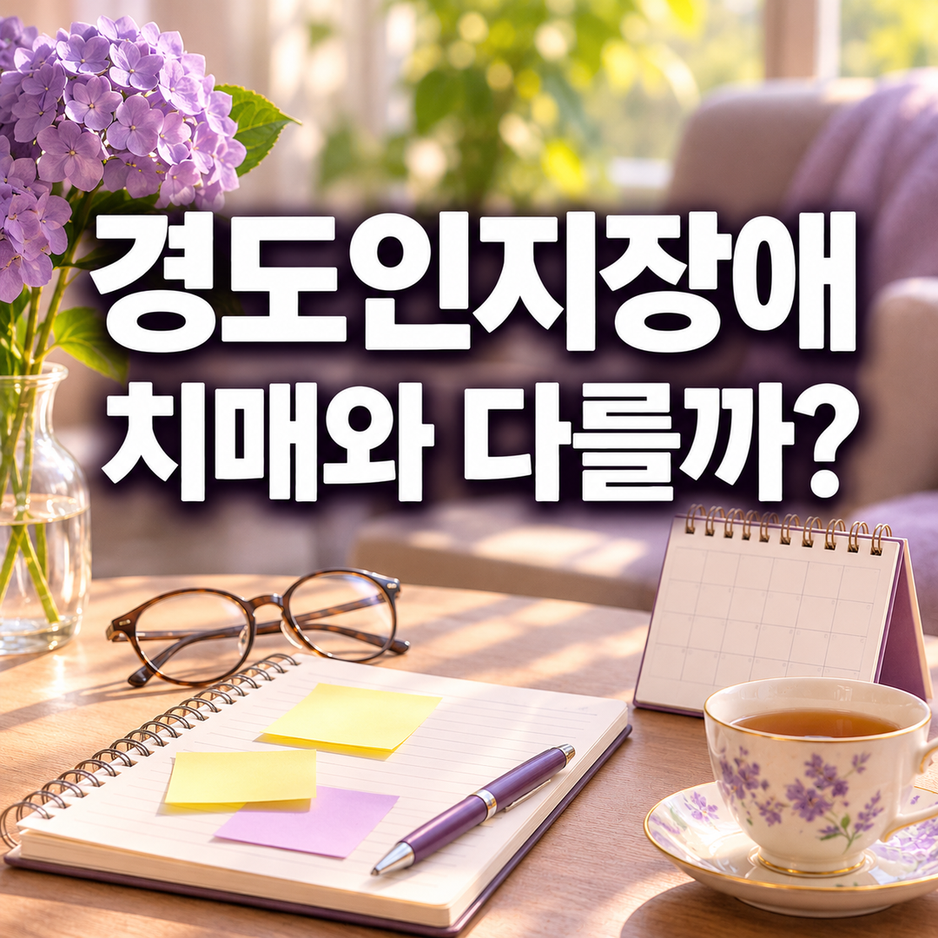
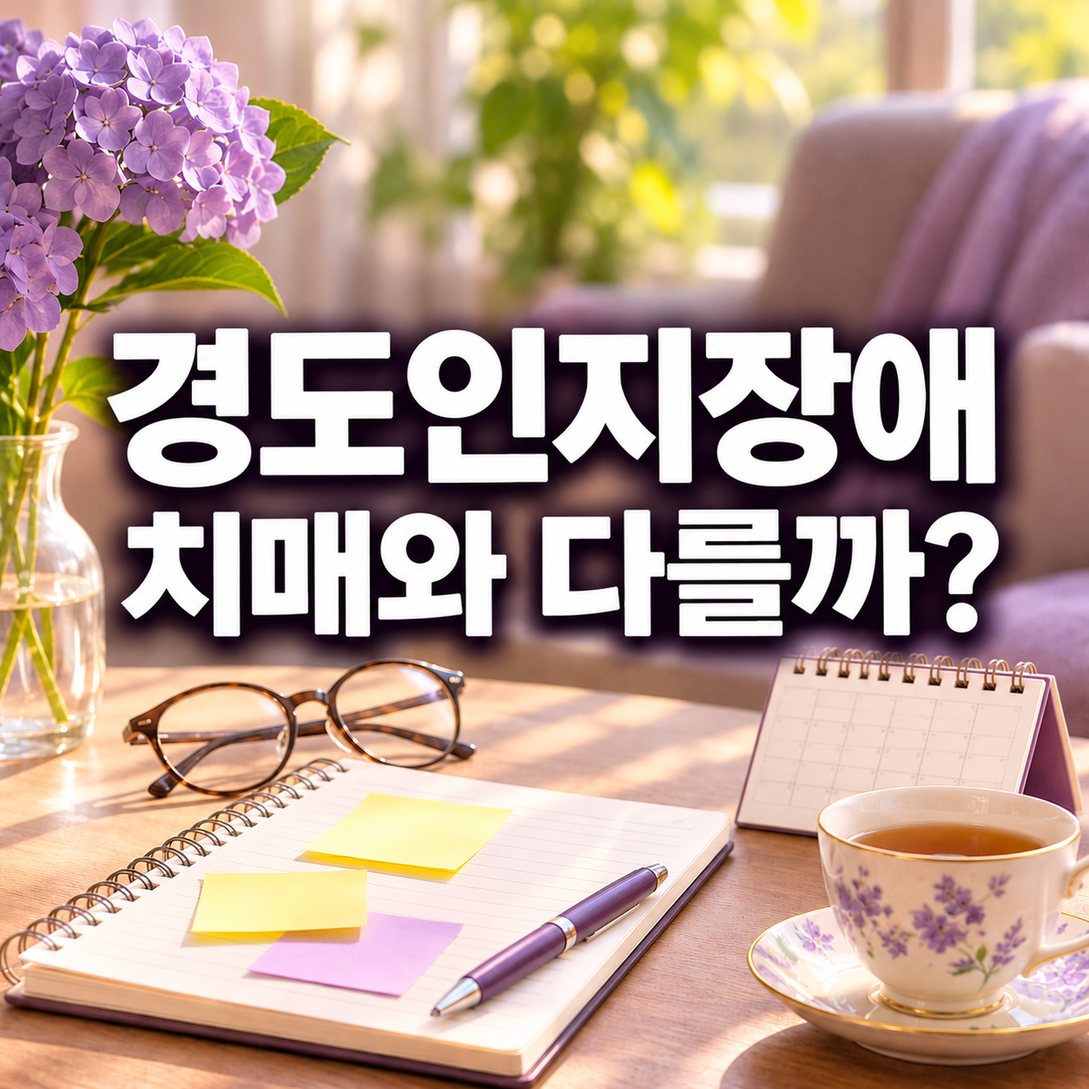
네이버 「블랙먼데이 뜻」·「블랙먼데이 다음 날」 두 편 작성
- 블랙먼데이 뜻, 폭락한 월요일에 확인할 것: 검수 반영, 타이틀 적용
- 블랙먼데이 다음 날, 역대 폭락일 이후 기록: 지수 종가로 직접 계산, 검수 반영, 이미지 5장
- 경도인지장애 타이틀 교체, AGENTS.md 진행 상황 기록

diff --git a/문서/네이버-코딩가이드/20261122_블랙먼데이-다음날/index.html b/문서/네이버-코딩가이드/20261122_블랙먼데이-다음날/index.html
@@ -1,0 +1,117 @@
+<meta charset="utf-8">
+<!--
+[네이버 블로그 발행 메모]
+제목: 블랙먼데이 다음 날, 주가는 어떻게 됐을까? 역대 폭락일 이후 기록
+검색 설명: 주가가 하루에 크게 떨어진 다음 날, 한 달 뒤, 1년 뒤에 지수는 어떻게 움직였을까. 1950년 이후 S&P500이 하루 7% 넘게 떨어진 9번과 2000~2025년 코스피가 하루 8% 넘게 떨어진 7번을 일별 종가로 직접 계산해 정리했다.
+카테고리: 경제·투자
+태그: #블랙먼데이 #주가폭락 #폭락다음날 #반등 #코스피급락 #S&P500 #주식 #증시 #1987블랙먼데이 #코로나폭락
+글자 수: 본문 공백 포함 1,824자 / 공백 제외 1,383자 (빨간 글씨 이미지 표시·줄바꿈 제외, 2026.11.22)
+분량 기준: 3,000자 이하. 한 편.
+본문 글자 크기: 16px. 소제목 h2 24px(위 구분선), h3 18px 앞에 ◆ 기호(글 안에서 모두 같음). '한 줄로 말하면'만 청록(#138a8a) 강조.
+발행 시점: 정해진 기한 없음(언제 읽어도 맞게 씀). 11/22 블랙먼데이 글의 후속편(사용자가 제목을 정함).
+발행 방법: 이 파일을 브라우저로 연 다음 본문을 드래그해 복사 → 네이버 편집기에 붙여넣는다.
+          본문의 빨간 글씨 [[ 이미지: 제목 (파일명) ]] 자리에 해당 파일을 올리고, 빨간 글씨는 지운다.
+          맨 아래 '(링크 자리)' 두 줄은 11/22 블랙먼데이 글·11/22 반토막 본전 글 링크로 바꾼다.
+
+[이미지 순서] (각 이미지가 무엇을 이해시키는지)
+01-타이틀.png (ChatGPT 제작, 1:1, '블랙먼데이 / 다음 날 주가는?', 아침 창가 책상 모니터의 파란 하락 뒤 짧은 빨간 반등 그래프·탁상 달력·커피잔, 글자 정확, 로고 없음, 둘째 줄 가로 약 85.4%로 허용 끝을 몇 px 넘었지만 줄이면 가장자리가 띠처럼 보여 그대로 씀, 크기만 1254 → 1080px, 원본 scratchpad/backup/bmnext-01-original.png) — 글의 주제
+02-폭락-다음-날.png (AI, 4:5) — 폭락 다음 날 오른 날과 내린 날이 각각 몇 번이고 얼마였는지 한눈에
+03-2008년과-2020년-1년.png (AI, 4:5) — 같은 '다음 날 반등'으로 시작해도 그 뒤 1년 길이 얼마나 달랐는지
+04-반등-뒤-더-떨어진-폭.png (AI, 4:5) — 다음 날 오른 만큼, 1년 안에 더 떨어진 폭은 얼마였는지(반등 ≠ 바닥)
+05-함께-보면-좋은-글.png (공통 배너 밝은색)
+※ AI 도식 디자인: 따뜻한 미색 종이 바탕(#f6f3ec)·먹색 글자(#1f2a44)·상승 빨강(#d64541)·하락 파랑(#2f6fd6)·강조 청록(#138a8a), 신문 경제면 표처럼 가는 선과 큰 숫자. 앞 글(블랙먼데이)의 짙은 시세 화면과 다르게 함. 02 점 그림(사건별), 03 선 그래프, 04 위아래 막대.
+※ 워터마크 없음.
+
+[근거 — 2026년 11월 22일 계산]
+- 야후 파이낸스 일별 종가(^GSPC 1927~, ^KS11 1996.12~, curl로 받아 직접 계산). 하락률 = 전 거래일 종가 대비 종가. 다음 날 = 다음 거래일 종가, 한 달 = 21거래일 뒤, 석 달 = 63거래일 뒤, 1년 = 252거래일 뒤(모두 폭락일 종가 대비).
+- S&P500 1950년 이후 하루 -7% 이하 9번: 1987.10.19 -20.47(다음 날 +5.33, 21일 +8.09, 63일 +10.89, 1년 +22.94, 1년 안 최저 -0.4%) / 1987.10.26 -8.28(+2.42, +8.22, +9.62, +23.99, -1.6) / 2008.9.29 -8.81(+5.42, -15.00, -21.42, -4.14, 2009.3.9까지 -38.9%, 전날 종가 회복 2010.4.23 = 394거래일) / 2008.10.9 -7.62(-1.18, +2.32, -2.15, +17.76, -25.6) / 2008.10.15 -9.03(+4.25, +0.38, -7.06, +20.79, -25.5) / 2008.12.1 -8.93(+3.99, +10.66, -12.66, +35.85, -17.1) / 2020.3.9 -7.60(+4.94, -3.17, +17.69, +41.10, -18.5) / 2020.3.12 -9.51(+9.29, +11.33, +21.02, +58.96, -9.8) / 2020.3.16 -11.98(+6.00, +16.65, +28.52, +66.07, 2020.3.23까지 -6.2).
+  → 다음 날 9번 중 8번 상승, 한 달 뒤 7번, 석 달 뒤 5번(2008년 네 번 모두 하락), 1년 뒤 8번 상승.
+- 코스피 2000~2025년 하루 -8% 이하 7번: 2000.4.17 -11.63(다음 날 +5.59, 21일 +3.24, 1년 -17.42, 1년 안 최저 -30.6) / 2000.9.18 -8.06(-1.11, -10.98, -18.13, -18.8) / 2001.9.12 -12.02(+4.97, +9.74, +38.34, -1.4) / 2008.10.16 -9.44(-2.73, -10.34, +36.68, -22.7) / 2008.10.24 -10.57(+0.82, +3.34, +74.72, 0.0) / 2020.3.19 -8.39(+7.44, +30.24, +108.28, 0.0) / 2024.8.5 -8.77(+3.30, +5.70, +28.68, 2025.4.9까지 -6.1).
+  → 다음 날 7번 중 5번 상승, 한 달 뒤 5번, 1년 뒤 5번 상승(2000년 두 번 하락). 2008.10.23 -7.48% 다음 날 10.24 -10.57%(이틀 연속 폭락)도 같은 자료.
+- 1950년 이후 S&P500 전체 거래일 중 오른 날 약 53%, 코스피 2000~2025년 약 53%(비교용).
+- 코스피는 2026년에도 큰 하락일이 자료에 있으나(3/3 -7.24%, 3/4 -12.06% 등) 사건을 원문으로 확인하지 못했고 1년 뒤 결과도 아직 없어 2025년까지로 잘랐다.
+- 1950년 이전(1929~1940년대 대공황기)은 시장 구조·자료 성격이 달라 넣지 않음.
+- 9번은 세 번의 위기(1987·2008·2020)에, 7번도 몇 번의 위기에 몰려 있어 독립된 사례가 아니라는 점을 본문에 밝힘. 지수 기준이라 개별 종목·레버리지 상품은 다름.
+- 투자 권유 아님 문장 넣음.
+- 2026-11-22 외부 검수 반영: 기준 표현 '넘게' → '하락률 ○% 이상'(집계는 -7%·-8% 이하), 비교 기준은 '다음 거래일·21거래일·252거래일', 배당 미포함 가격지수 안내, 다음 날 +9.3%와 원금 회복의 차이(100만 → 90만 → 약 98만 3,700원), 2020.3.16은 '5거래일 후 3월 23일 종가 저점', 1년 안 추가 하락은 '폭락일 종가보다 10% 넘게 낮은 종가'(2008년 4번·2020.3.9 1번), 회복 기간은 394거래일로만. 그림 04에 '기준 = 폭락일 종가' 표시.
+-->
+<p style="font-size:16px;">주가가 크게 무너진 날 밤, 가장 궁금한 건 하나입니다.</p>
+<p style="font-size:16px;">"내일은 좀 오를까?"</p>
+<p style="font-size:16px;color:#e60000;font-weight:bold;">[[ 이미지: 타이틀 (01-타이틀.png) ]]</p>
+
+<p>&nbsp;</p>
+<h3 style="font-size:18px;margin:24px 0 8px;color:#138a8a;">◆ 한 줄로 말하면</h3>
+<p style="font-size:16px;">과거 폭락일 다음 날에는 대부분 올랐습니다. 하지만 그 반등이 바닥이었던 것은 아닙니다.</p>
+<p style="font-size:16px;">몇 달 동안 더 떨어진 때도 있었습니다.</p>
+
+<p>&nbsp;</p>
+<hr style="border:none;border-top:1px solid #cfcfcf;margin:8px 0;">
+<h2 style="font-size:24px;margin:40px 0 12px;">어떤 날을 골라 셌을까?</h2>
+<p style="font-size:16px;">지수의 하루 종가로 직접 계산했습니다.</p>
+<ul style="font-size:16px;">
+<li>미국 S&amp;P500: 1950년 이후 하루 하락률이 7% 이상인 날 9번</li>
+<li>코스피: 2000~2025년 하루 하락률이 8% 이상인 날 7번</li>
+</ul>
+<p style="font-size:16px;">1987년 블랙먼데이(-20.5%), 2008년 금융위기, 2020년 코로나 폭락, 2024년 8월 5일(-8.8%)이 모두 들어 있습니다.</p>
+<p style="font-size:16px;">각 폭락일의 종가를 기준으로 다음 거래일, 21거래일 뒤(약 한 달), 252거래일 뒤(약 1년)의 지수를 비교했습니다.</p>
+<p style="font-size:16px;">배당을 포함하지 않은 지수 종가 기준입니다. 실제 투자 수익률은 배당, 수수료, 세금, 매수 시점에 따라 달라질 수 있습니다.</p>
+
+<p>&nbsp;</p>
+<hr style="border:none;border-top:1px solid #cfcfcf;margin:8px 0;">
+<h2 style="font-size:24px;margin:40px 0 12px;">다음 날에는 대부분 올랐다</h2>
+<p style="font-size:16px;">S&amp;P500은 9번 중 8번, 코스피는 7번 중 5번 다음 날 올랐습니다.</p>
+<p style="font-size:16px;">오른 폭도 작지 않았습니다. 2020년 3월 12일 다음 날 S&amp;P500은 하루에 9.3% 올랐습니다.</p>
+<p style="font-size:16px;">그래도 전날 손실이 다 회복된 것은 아닙니다. 100만 원이 90만 원으로 떨어진 뒤 9.3% 오르면 약 98만 3,700원입니다.</p>
+<p style="font-size:16px;">하락률과 상승률은 계산하는 기준 금액이 다르기 때문입니다.</p>
+<p style="font-size:16px;color:#e60000;font-weight:bold;">[[ 이미지: 폭락 다음 날 (02-폭락-다음-날.png) ]]</p>
+<p style="font-size:16px;">다음 날 또 떨어진 때도 있습니다.</p>
+<p style="font-size:16px;">코스피는 2008년 10월 23일 7.5% 떨어진 다음 날 10.6%가 더 빠졌습니다. 이틀 연속 폭락이었습니다.</p>
+
+<p>&nbsp;</p>
+<hr style="border:none;border-top:1px solid #cfcfcf;margin:8px 0;">
+<h2 style="font-size:24px;margin:40px 0 12px;">반등했다고 바닥은 아니었다</h2>
+<p style="font-size:16px;">2008년 9월 29일, S&amp;P500은 하루에 8.8% 떨어졌습니다.</p>
+<p style="font-size:16px;">다음 날에는 5.4% 올랐습니다. 여기까지만 보면 금방 회복한 것처럼 보입니다.</p>
+<p style="font-size:16px;">하지만 한 달 뒤에는 그날보다 15% 낮았습니다. 이듬해 3월에는 39% 가까이 더 내려갔습니다.</p>
+<p style="font-size:16px;color:#e60000;font-weight:bold;">[[ 이미지: 2008년과 2020년, 그 뒤 1년 (03-2008년과-2020년-1년.png) ]]</p>
+<p style="font-size:16px;">2020년 3월 16일은 달랐습니다. 약 12% 떨어진 뒤 5거래일 후인 3월 23일 종가를 저점으로 반등했습니다.</p>
+<p style="font-size:16px;">1년 뒤에는 폭락일 종가보다 약 66% 높았습니다.</p>
+<p style="font-size:16px;">두 날 모두 다음 날은 올랐습니다. 다음 날 하루만으로는 어느 길인지 알 수 없었다는 뜻입니다.</p>
+
+<h3 style="font-size:18px;margin:24px 0 8px;">◆ 1년 안에 더 떨어진 폭</h3>
+<p style="font-size:16px;">S&amp;P500 9번 가운데 5번은 1년 안에 폭락일 종가보다 10% 넘게 낮은 종가를 기록했습니다.</p>
+<p style="font-size:16px;">이 5번은 2008년 금융위기 때 4번, 2020년 3월 9일 1번입니다.</p>
+<p style="font-size:16px;color:#e60000;font-weight:bold;">[[ 이미지: 반등 뒤 더 떨어진 폭 (04-반등-뒤-더-떨어진-폭.png) ]]</p>
+
+<p>&nbsp;</p>
+<hr style="border:none;border-top:1px solid #cfcfcf;margin:8px 0;">
+<h2 style="font-size:24px;margin:40px 0 12px;">한 달 뒤, 1년 뒤는?</h2>
+<p style="font-size:16px;">시간이 길어지면 결과가 갈렸습니다.</p>
+<ul style="font-size:16px;">
+<li>S&amp;P500: 한 달 뒤 9번 중 7번, 1년 뒤 8번 폭락일보다 높았음</li>
+<li>코스피: 한 달 뒤 7번 중 5번, 1년 뒤 5번 폭락일보다 높았음</li>
+</ul>
+<p style="font-size:16px;">1년 뒤에도 낮았던 때는 2008년 9월 S&amp;P500, 2000년의 코스피 두 번입니다.</p>
+<p style="font-size:16px;">2008년 9월 29일 폭락 때 S&amp;P500은 폭락 전날 종가를 다시 회복하기까지 394거래일이 걸렸습니다.</p>
+
+<p>&nbsp;</p>
+<hr style="border:none;border-top:1px solid #cfcfcf;margin:8px 0;">
+<h2 style="font-size:24px;margin:40px 0 12px;">이 숫자를 읽을 때 조심할 것</h2>
+<ul style="font-size:16px;">
+<li>사례가 적습니다. 9번과 7번뿐입니다.</li>
+<li>같은 위기에 몰려 있습니다. S&amp;P500 9번은 사실상 1987년·2008년·2020년 세 번의 위기입니다.</li>
+<li>지수 기준입니다. 개별 종목이나 레버리지 상품은 훨씬 다르게 움직일 수 있습니다.</li>
+<li>과거 기록이 앞으로를 알려 주지는 않습니다.</li>
+</ul>
+
+<p>&nbsp;</p>
+<hr style="border:none;border-top:1px solid #cfcfcf;margin:8px 0;">
+<h2 style="font-size:24px;margin:40px 0 12px;">반등한 날에도 다시 볼 것</h2>
+<p style="font-size:16px;">폭락 다음 날 오르면 마음이 놓입니다. 그래도 그날 계좌를 다시 보는 게 좋습니다.</p>
+<p style="font-size:16px;">빌린 돈이 있는지, 곧 써야 할 돈이 들어 있는지는 반등한 날에도 그대로입니다.</p>
+<p style="font-size:14px;color:#777;">이 글은 과거 지수 기록을 정리한 것이며, 특정 상품의 매수·매도를 권하지 않습니다. 과거 기록이 미래 수익을 보장하지 않습니다.</p>
+
+<p>&nbsp;</p>
+<p style="font-size:16px;color:#e60000;font-weight:bold;">[[ 이미지: 함께 보면 좋은 글 (05-함께-보면-좋은-글.png) ]]</p>
+<p style="font-size:16px;">(링크 자리) 블랙먼데이 뜻, 주가 폭락한 월요일에 확인할 것</p>
+<p style="font-size:16px;">(링크 자리) 반토막 난 투자, 본전까지 몇 % 올라야 할까?</p>

diff --git a/문서/네이버-코딩가이드/20261122_블랙먼데이/index.html b/문서/네이버-코딩가이드/20261122_블랙먼데이/index.html
@@ -1,0 +1,103 @@
+<meta charset="utf-8">
+<!--
+[네이버 블로그 발행 메모]
+제목: 블랙먼데이 뜻, 주가 폭락한 월요일에 확인할 것
+검색 설명: 블랙먼데이는 주가가 크게 떨어진 월요일을 부르는 말이다. 1987년 미국 블랙먼데이와 2024년 8월 5일 코스피 급락, 폭락이 월요일에 몰리는 이유, 폭락한 날 사이드카·서킷브레이커와 신용·미수 반대매매를 확인하는 순서를 정리했다.
+카테고리: 경제·투자
+태그: #블랙먼데이 #검은월요일 #주가폭락 #코스피급락 #서킷브레이커 #사이드카 #반대매매 #신용거래 #담보비율 #주식
+글자 수: 본문 공백 포함 1,776자 / 공백 제외 1,356자 (빨간 글씨 이미지 표시·줄바꿈 제외, 2026.11.22)
+분량 기준: 3,000자 이하. 한 편.
+본문 글자 크기: 16px. 소제목 h2 24px(위 구분선), h3 18px 앞에 ▸ 기호(글 안에서 모두 같음). '한 줄로 말하면'만 주황(#e08a00) 강조.
+발행 시점: 정해진 기한 없음(언제 읽어도 맞게 씀). 계기: 2026.11.22 네이트 경제 관심뉴스 '검은 월요일 될라… 골드만의 서늘한 전망', '다음 주 108조 원 추가 매도 경고' — 본문에는 쓰지 않음.
+발행 방법: 이 파일을 브라우저로 연 다음 본문을 드래그해 복사 → 네이버 편집기에 붙여넣는다.
+          본문의 빨간 글씨 [[ 이미지: 제목 (파일명) ]] 자리에 해당 파일을 올리고, 빨간 글씨는 지운다.
+          맨 아래 '(링크 자리)' 두 줄은 11/20 사이드카 글·11/21 공포지수 VIX 글 링크로 바꾼다.
+
+[이미지 순서] (각 이미지가 무엇을 이해시키는지)
+01-타이틀.png (ChatGPT 제작, 1:1, '블랙먼데이 / 폭락한 월요일', 새벽 창가 책상의 노트북 파란 하락 차트·한 칸 칠한 탁상 달력·커피잔, 글자 정확, 가장 넓은 줄 약 83~84%로 허용 범위 안, 로고 없음, 크기만 1254 → 1080px, 원본 scratchpad/backup/bm-01-original.png) — 글의 주제(블랙먼데이)
+02-역사에-남은-월요일.png (AI, 4:5) — 세 번의 '검은 월요일'이 하루에 얼마나 떨어졌는지 크기 비교
+03-폭락한-날-확인-순서.png (AI, 4:5) — 폭락한 날 무엇부터 확인할지 순서
+04-반대매매-계산.png (AI, 4:5) — 신용으로 산 주식이 얼마나 떨어지면 담보 비율이 기준 아래로 내려가는지
+05-함께-보면-좋은-글.png (공통 배너 남색)
+※ AI 도식 디자인(새 지침): 짙은 남회색 바탕(#151a23)·시세 화면 느낌, 하락 파랑(#4d8bff)·상승 빨강(#ff5a5a)·강조 주황(#ffb020), 큰 숫자 위주. 앞 글들의 밝은 바탕·카드 틀과 다르게 함. 02 가로 막대, 03 세로 흐름, 04 계산 막대.
+※ 워터마크 없음.
+
+[근거 — 2026년 11월 22일 확인]
+- 야후 파이낸스 일별 종가(curl로 받아 직접 계산): S&P500 1987.10.19(월) 282.70 → 224.84(-20.47%), 2020.3.16(월) 2,711.02 → 2,386.13(-11.98%). 코스피 2024.8.5(월) 2,676.19 → 2,441.55(-8.77%), 다음 날 2024.8.6 +3.30%.
+- 다우 1987.10.19 하루 약 -22.6%(508포인트)는 일반 지식(야후 다우 자료는 1992년부터라 대조 못 함).
+- 1987년 원인(프로그램 매매·포트폴리오 보험·불안 심리)과 이후 서킷브레이커 도입 계기는 일반 지식 — 본문은 '여러 원인이 함께 거론된다'로 씀.
+- 2024.8.5 코스피·코스닥 서킷브레이커·사이드카 발동은 일반 지식(당시 보도로 널리 알려짐).
+- 사이드카(선물 5% 1분 → 프로그램매매 호가 5분 정지)·서킷브레이커(지수 8%·15%·20% 하락 1분 지속 → 20분 중단, 3단계는 그날 장 종료)는 11/20 사이드카 글에서 생활법령정보로 확인한 내용.
+- 반대매매·담보 비율: 신용거래 담보 유지 비율은 증권사가 정하며 140%를 쓰는 곳이 많다고 알려짐(일반 지식) — 본문은 '증권사마다 다름, 예시는 140% 가정'. 미수는 결제일까지 돈을 채우지 못하면 반대매매. 계산 예시(자기 돈 1,000만 + 신용 1,000만 → 2,000만 원어치, 30% 하락 시 140%, 40% 하락 시 120%)는 직접 계산, 이자·수수료 제외.
+- 야후 코스피 자료에는 2026년의 큰 하락일(3/4 -12.06%, 7/28 -10.84% 등)도 있으나 사건 내용을 원문으로 확인하지 못해 본문에 쓰지 않음.
+- 2026-11-22 외부 검수 일곱 가지 반영: 1987 최대 기록은 '다우 지수 하루 하락률·미국 증시 역사상 최대'로, 서킷브레이커는 미국 도입과 한국 유가증권시장 1998년 12월 도입을 나눔(검수 의견 기준), 코스피는 '전 거래일보다 8.77% 하락한 2,441.55', 사이드카·서킷브레이커는 기준·대상을 나누고 3단계 당일 종료 명시, 신용(담보 비율·추가 담보 기한)과 미수(결제일까지 미입금)를 나눔, 담보 계산 예시 금액을 본문에 넣음, 확인 시점은 '미국 금요일 장 + 주말 뉴스'. 그림 03 1번 칸도 맞춤.
+- 투자 권유 아님 문장 넣음.
+-->
+<p style="font-size:16px;">월요일 아침, 계좌를 열기가 겁나는 날이 있습니다.</p>
+<p style="font-size:16px;">주가가 크게 무너진 월요일을 사람들은 '블랙먼데이'라고 부릅니다.</p>
+<p style="font-size:16px;color:#e60000;font-weight:bold;">[[ 이미지: 타이틀 (01-타이틀.png) ]]</p>
+
+<p>&nbsp;</p>
+<h3 style="font-size:18px;margin:24px 0 8px;color:#e08a00;">▸ 한 줄로 말하면</h3>
+<p style="font-size:16px;">블랙먼데이(검은 월요일)는 1987년 미국 증시가 하루에 20% 넘게 떨어진 날에서 나온 말입니다.</p>
+<p style="font-size:16px;">지금은 주가가 크게 떨어진 월요일을 두루 부르는 말로 씁니다.</p>
+
+<p>&nbsp;</p>
+<hr style="border:none;border-top:1px solid #cfcfcf;margin:8px 0;">
+<h2 style="font-size:24px;margin:40px 0 12px;">1987년 10월 19일, 무슨 일이 있었나?</h2>
+<p style="font-size:16px;">그날 미국 다우 지수는 하루에 약 22.6% 떨어졌습니다. S&amp;P500 지수도 약 20.5% 빠졌습니다. 다우 지수의 하루 하락률로는 지금도 미국 증시 역사상 최대 기록입니다.</p>
+<p style="font-size:16px;">원인으로는 자동으로 주식을 파는 컴퓨터 매매, 손실을 막으려는 매도 전략, 커진 불안 심리가 함께 거론됩니다.</p>
+<p style="font-size:16px;">이 일 뒤 미국에서는 주가가 너무 빠르게 움직일 때 거래를 잠시 멈추는 장치가 도입됐습니다. 우리나라 유가증권시장에는 1998년 12월 서킷브레이커가 도입됐습니다.</p>
+
+<p>&nbsp;</p>
+<hr style="border:none;border-top:1px solid #cfcfcf;margin:8px 0;">
+<h2 style="font-size:24px;margin:40px 0 12px;">우리 증시의 검은 월요일은?</h2>
+<p style="font-size:16px;">가까운 예가 2024년 8월 5일 월요일입니다. 코스피는 전 거래일보다 8.77% 떨어진 2,441.55로 마감했습니다.</p>
+<p style="font-size:16px;">이날 코스피와 코스닥 모두 거래가 잠시 멈추는 서킷브레이커가 발동됐습니다. 그런데 다음 날 코스피는 3.3% 올랐습니다.</p>
+<p style="font-size:16px;color:#e60000;font-weight:bold;">[[ 이미지: 역사에 남은 월요일 (02-역사에-남은-월요일.png) ]]</p>
+<p style="font-size:16px;">코로나19가 퍼지던 2020년 3월 16일 월요일에도 S&amp;P500이 약 12% 떨어졌습니다.</p>
+
+<p>&nbsp;</p>
+<hr style="border:none;border-top:1px solid #cfcfcf;margin:8px 0;">
+<h2 style="font-size:24px;margin:40px 0 12px;">왜 하필 월요일일까?</h2>
+<p style="font-size:16px;">주말 이틀 동안 시장은 닫혀 있지만 뉴스는 계속 쌓입니다. 그 소식이 월요일 장이 열리자마자 한꺼번에 가격에 반영됩니다.</p>
+<p style="font-size:16px;">한국은 시차도 있습니다. 우리 월요일 아침에는 미국 금요일 장의 결과가 이미 나와 있습니다.</p>
+<p style="font-size:16px;">다만 큰 폭락이 늘 월요일에만 오는 것은 아닙니다. 다른 요일에 무너진 날도 많습니다.</p>
+
+<p>&nbsp;</p>
+<hr style="border:none;border-top:1px solid #cfcfcf;margin:8px 0;">
+<h2 style="font-size:24px;margin:40px 0 12px;">폭락한 날, 무엇부터 확인할까?</h2>
+<p style="font-size:16px;color:#e60000;font-weight:bold;">[[ 이미지: 폭락한 날 확인 순서 (03-폭락한-날-확인-순서.png) ]]</p>
+
+<h3 style="font-size:18px;margin:24px 0 8px;">▸ 시장이 멈췄는지</h3>
+<p style="font-size:16px;">두 제도는 기준과 멈추는 대상이 다릅니다.</p>
+<ul style="font-size:16px;">
+<li>사이드카: 선물 가격이 크게 움직이면 프로그램 매매 주문의 효력을 5분 동안 멈춥니다.</li>
+<li>서킷브레이커: 지수가 크게 떨어지면 시장 거래를 멈춥니다. 1·2단계는 20분 중단, 3단계는 그날 장을 끝냅니다.</li>
+</ul>
+<p style="font-size:16px;">서킷브레이커가 걸리면 그동안 주문이 체결되지 않습니다.</p>
+
+<h3 style="font-size:18px;margin:24px 0 8px;">▸ 신용·미수로 산 주식이 있는지</h3>
+<p style="font-size:16px;">빌린 돈으로 산 주식은 증권사가 강제로 팔 수 있습니다. 이것을 '반대매매'라고 합니다. 신용과 미수는 조건이 다릅니다.</p>
+<ul style="font-size:16px;">
+<li>신용거래: 담보 비율이 기준 아래로 내려가면 증권사가 추가 담보를 요구할 수 있습니다. 정해진 기한까지 채우지 못하면 반대매매될 수 있습니다.</li>
+<li>미수거래: 결제일까지 모자란 돈을 넣지 못하면 반대매매될 수 있습니다.</li>
+</ul>
+<p style="font-size:16px;">예를 들어 내 돈 1,000만 원에 신용으로 1,000만 원을 더해 2,000만 원어치 주식을 샀다고 해 보겠습니다. 담보 비율 기준을 140%로 가정하면, 주가가 30% 떨어져 평가액이 1,400만 원이 될 때 기준선에 닿습니다.</p>
+<p style="font-size:16px;color:#e60000;font-weight:bold;">[[ 이미지: 반대매매 계산 예시 (04-반대매매-계산.png) ]]</p>
+<p style="font-size:16px;">기준과 처리 시각은 증권사마다 다릅니다. 내 계좌의 담보 비율과 추가 납부 기한을 먼저 확인하세요.</p>
+
+<h3 style="font-size:18px;margin:24px 0 8px;">▸ 급하게 결정하기 전에</h3>
+<p style="font-size:16px;">폭락한 날은 불안 때문에 서둘러 결정하기 쉽습니다. 계좌에 든 돈이 언제 필요한 돈인지, 한 종목에 몰려 있지 않은지부터 살펴보세요.</p>
+
+<p>&nbsp;</p>
+<hr style="border:none;border-top:1px solid #cfcfcf;margin:8px 0;">
+<h2 style="font-size:24px;margin:40px 0 12px;">월요일 아침, 계좌를 열기 전에</h2>
+<p style="font-size:16px;">월요일 장을 앞두고는 직전 거래일인 미국 금요일 증시와 주말에 나온 주요 뉴스를 함께 보면 분위기를 짐작하는 데 도움이 됩니다.</p>
+<p style="font-size:16px;">그리고 내 계좌에 빌린 돈이 있는지 확인하는 것, 이 두 가지만 해도 당황할 일이 줄어듭니다.</p>
+<p style="font-size:14px;color:#777;">이 글은 제도와 용어를 설명한 것이며, 특정 상품의 매수·매도를 권하지 않습니다.</p>
+
+<p>&nbsp;</p>
+<p style="font-size:16px;color:#e60000;font-weight:bold;">[[ 이미지: 함께 보면 좋은 글 (05-함께-보면-좋은-글.png) ]]</p>
+<p style="font-size:16px;">(링크 자리) 사이드카 발동, 내 주문은 어떻게 될까?</p>
+<p style="font-size:16px;">(링크 자리) 나스닥·코스피 급락에 치솟은 공포지수 VIX, 무엇을 알려 줄까?</p>

diff --git a/AGENTS.md b/AGENTS.md
@@ -230,6 +230,16 @@
 - 히스토리 가이드 후보(2026-11-15 제안, 4번 수능의 역사는 작성함): 한지 유네스코 등재(최종 결정 11.30~12.5 정부간위원회) / 김장 문화의 역사(김장철) / 단종과 영월 청령포('왕과 사는 남자' 흥행) / 순국선열의 날.
 
 ## 진행 상황 (2026-11-22 기준)
+- 2026-11-22: `문서/네이버-코딩가이드/20261122_블랙먼데이-다음날/index.html` 작성("블랙먼데이 다음 날, 주가는 어떻게 됐을까? 역대 폭락일 이후 기록" — 사용자가 제목을 정함, 블랙먼데이 글 후속, 카테고리 경제·투자, 공백 포함 1,578자).
+  - 계산(야후 일별 종가, 직접): S&P500 1950년 이후 하루 -7% 이하 9번(1987 둘·2008 넷·2020 셋) → 다음 날 8번 상승, 한 달 뒤 7번, 석 달 뒤 5번, 1년 뒤 8번 높음, 9번 중 5번은 1년 안에 10% 넘게 더 하락(2008.9.29는 다음 날 +5.4%였지만 2009.3.9까지 -38.9%, 전날 종가 회복 394거래일). 코스피 2000~2025년 -8% 이하 7번 → 다음 날 5번 상승, 1년 뒤 5번 높음(2000년 두 번 하락), 2008.10.23 -7.5% 다음 날 -10.6%. 2026년 코스피 큰 하락일은 사건 미확인·1년 결과 없음이라 뺐다. 1950년 이전 대공황기도 뺐다. 표본이 적고 같은 위기에 몰려 있다는 점을 본문에 밝힘. 사례별 숫자는 발행 메모.
+  - 구성: '내일은 오를까?' → 타이틀 → h3 한 줄로 말하면(청록) → 어떤 날을 셌나 → 다음 날에는 대부분 올랐다 → 반등했다고 바닥은 아니었다(2008 vs 2020, h3 1년 안에 더 떨어진 폭) → 한 달 뒤·1년 뒤 → 조심할 것 → '반등한 날에도 다시 볼 것', 투자 권유 아님. h3 기호 ◆.
+  - 이미지 5장: AI 02 폭락 다음 날(사건별 막대, 1080×1500)·03 같은 반등 다른 1년(2008.9.29·2020.3.16 선 그래프)·04 반등 뒤 더 떨어진 폭(좌우 같은 비율 막대) — 디자인은 블랙먼데이 글의 짙은 시세 화면과 다르게 미색 종이·먹색·가는 선(신문 경제면). 05 배너(밝은색). ChatGPT 01 타이틀('블랙먼데이 / 다음 날 주가는?', 아침 책상 모니터의 하락 뒤 반등 그래프, 글자 정확, 둘째 줄 약 85.4%라 그대로, 크기만 맞춤, 원본 scratchpad/backup/bmnext-01-original.png) 적용. 이미지 5장 완료, 대기 중인 요청 없음. 스크립트 scratchpad/bm2/img.py·an.py. 링크 자리는 블랙먼데이 글·반토막 본전 글.
+  - 같은 날 외부 검수 일곱 가지 반영(공백 포함 1,824자): 기준은 '하락률 ○% 이상', 기간은 거래일(21·252)로, 배당 미포함 지수 안내, 다음 날 반등과 원금 회복의 차이 예시, 저점은 '5거래일 후 종가', 추가 하락은 '폭락일 종가 기준', 그림 04에 기준 표시. **과거 수익률 통계 글 기준**: '넘게/이상'을 집계 부등호와 맞추고, '한 달·1년'이 거래일인지 밝히며, 비교 기준 가격(폭락일 종가 등)을 문장과 그림에 모두 적는다. 가격지수는 배당 미포함이라고 밝힌다.
+- 2026-11-22: `문서/네이버-코딩가이드/20261122_블랙먼데이/index.html` 작성("블랙먼데이 뜻, 주가 폭락한 월요일에 확인할 것", 카테고리 경제·투자, 공백 포함 1,456자). 사용자가 '블랙먼데이' 소재 제안 5개 중 1번을 골랐다(계기: 11/22 '검은 월요일 될라… 108조 원 추가 매도 경고' 기사, 본문에는 쓰지 않음).
+  - 구성: 월요일 아침 한 줄 → 타이틀 → h3 한 줄로 말하면(주황) → 1987.10.19(다우 약 -22.6%·S&P500 -20.5%, 원인은 '함께 거론', 서킷브레이커 계기) → 우리 증시의 검은 월요일(2024.8.5 코스피 -8.77%, 서킷브레이커, 다음 날 +3.3%) → 왜 월요일(주말 뉴스·한미 시차, 늘 월요일은 아님) → 폭락한 날 확인할 것(h3 ▸ 거래 정지·신용/미수 반대매매·급한 결정 전에) → '월요일 아침, 계좌를 열기 전에', 투자 권유 아님.
+  - 근거: 야후 ^GSPC·^KS11 일별 종가로 직접 계산. 다우 1987은 야후 자료가 1992년부터라 일반 지식. 야후 코스피에 2026년 큰 하락일(3/4 -12.06% 등)이 있으나 사건을 원문으로 확인 못 해 쓰지 않음. 반대매매 담보 비율 140%는 '증권사마다 다름, 예시'.
+  - 이미지 5장: AI 02 역사에 남은 월요일(가로 막대)·03 확인 순서(세로 흐름)·04 반대매매 계산(막대 + 140% 점선) — **새 도식 지침에 따라 짙은 남회색 시세 화면 느낌(하락 파랑·상승 빨강·강조 주황)**, 05 배너(남색)는 `images/`에 있다. ChatGPT 01 타이틀('블랙먼데이 / 폭락한 월요일', 새벽 책상 노트북의 파란 하락 차트·달력·커피잔, 글자 정확, 가장 넓은 줄 약 83~84%, 크기만 맞춤, 원본 scratchpad/backup/bm-01-original.png) 적용. 이미지 5장 완료, 대기 중인 요청 없음. 스크립트 scratchpad/bm/bm.py. 링크 자리는 11/20 사이드카 글·11/21 공포지수 VIX 글.
+  - 같은 날 외부 검수 일곱 가지 반영(공백 포함 1,776자): 1987 최대 기록은 '다우 지수 기준', 서킷브레이커는 미국 도입과 한국 1998년 12월 도입을 나눔, 코스피 종가 2,441.55, 사이드카·서킷브레이커 기준·대상 구분과 3단계 당일 종료, 신용과 미수의 반대매매 조건을 나눔, 담보 계산 예시 금액을 본문에, 확인 시점은 '미국 금요일 장 + 주말 뉴스'. 그림 03 문구도 맞춤. **시장 제도 글 기준**: '최대 기록'은 어느 지수 기준인지 밝힌다. 제도 도입은 나라별 시점을 나눈다. 단계가 있는 제도는 마지막 단계(당일 종료)까지 쓴다. 신용과 미수처럼 조건이 다른 것은 나눠 쓴다.
 - 2026-11-22: `문서/네이버-코딩가이드/20261122_경도인지장애/index.html` 작성("경도인지장애, 치매와 무엇이 다를까? 무료 검사까지", 카테고리 생활 정보, 공백 포함 1,538자). 네이트 관심뉴스(한 원로 배우의 경도인지장애 고백)를 계기로 고른 후보 1번 — 사람 이름·사정은 본문에 쓰지 않음.
   - 구성: 걱정 한 줄 → 타이틀 → h3 한 줄로 말하면(보라) → 건망증·경도인지장애·치매 차이 → 신호(진단 도구 아님) → 검사(h3 선별 무료·진단·감별 비용 지원) → 모두 치매가 되나(한 해 10~15% 보고, 고칠 수 있는 원인, 2024 국내 허가 새 치료제는 제품명 없이) → 위험 요인 14가지(Lancet 2024, '추정') → '부모님 댁에 전화할 때 물어볼 것'(치매상담콜센터 1899-9988), 진단을 대신하지 않는다는 회색 안내. h3 기호 ▪.
   - 근거: 강남구 치매안심센터 공식 조기검진 페이지(세 단계·감별검사비 상한 8만/11만 원·만 60세·중위소득 120%), 생활법령정보 요약(진단검사 최대 15만 원 — 원문 미열람), 진행률 10~15%는 국내 안내에 흔한 수치(원문 미대조). 선별검사 나이 기준은 센터마다 달라 '주로 만 60세 이상'.
